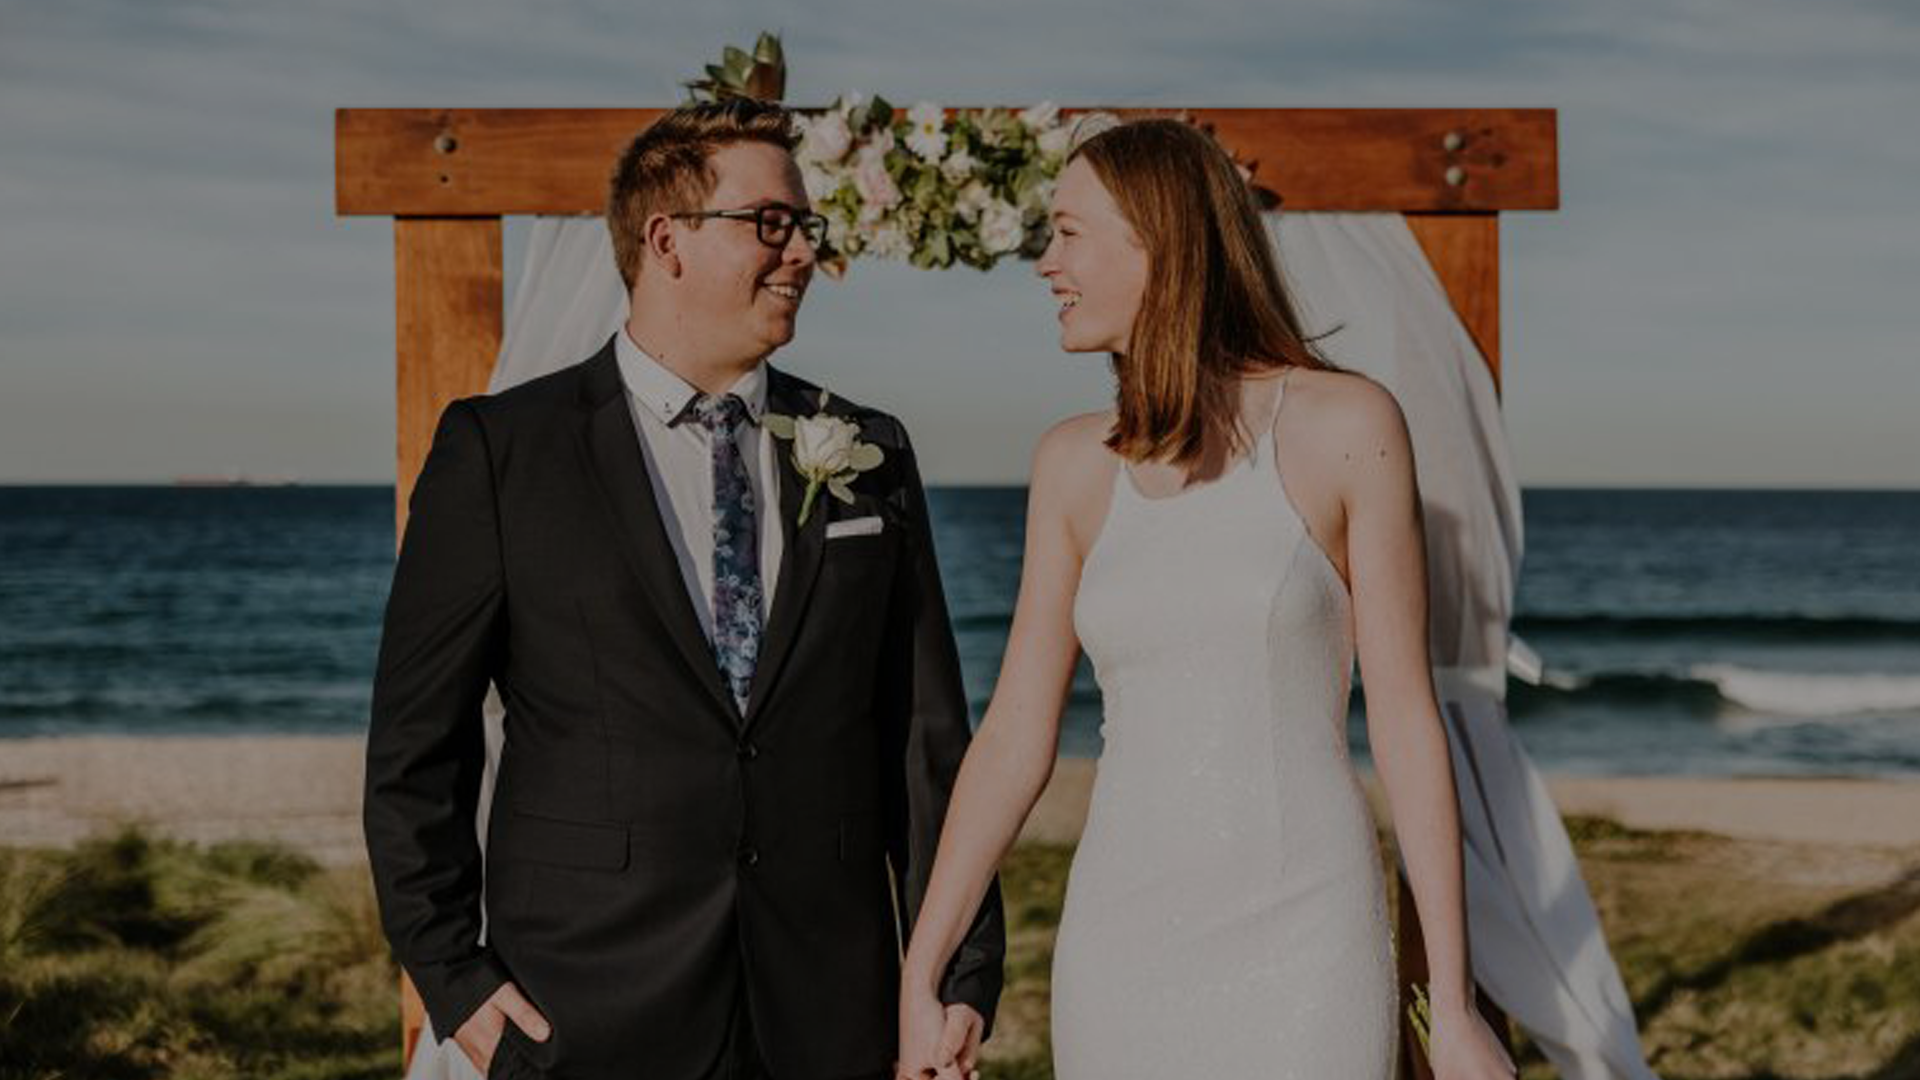
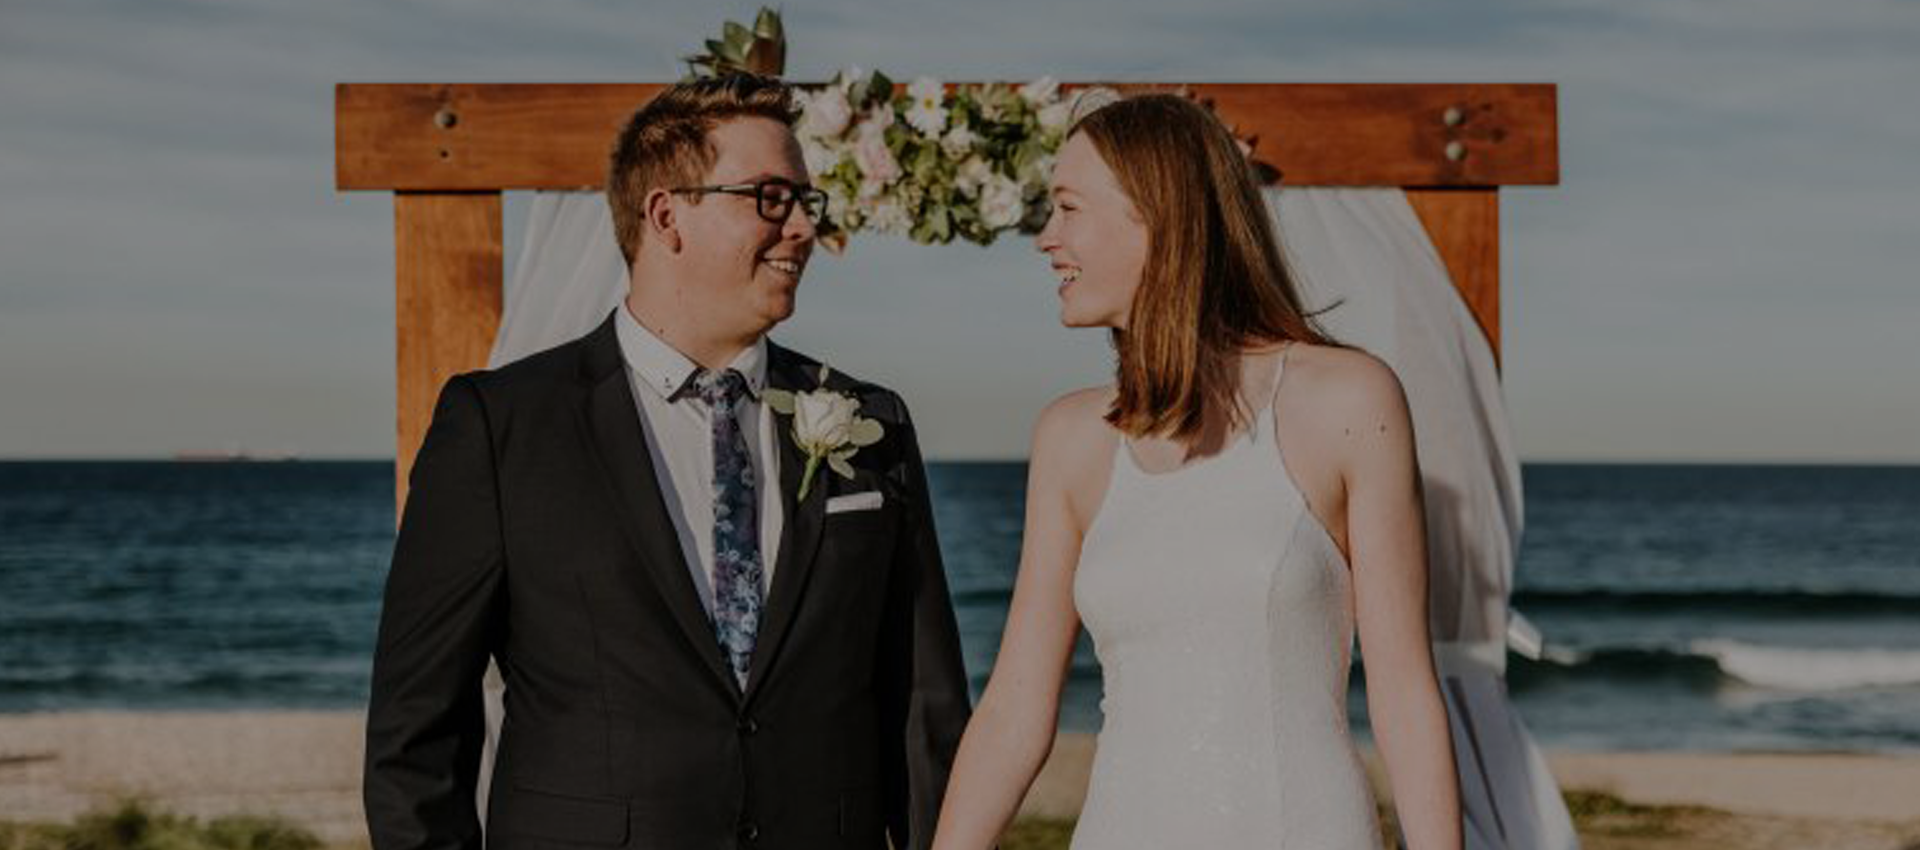
search bar

diff --git a/index.html b/index.html
@@ -7,6 +7,7 @@
   <link rel="stylesheet" href="https://stackpath.bootstrapcdn.com/bootstrap/5.0.0-alpha1/css/bootstrap.min.css" integrity="sha384-r4NyP46KrjDleawBgD5tp8Y7UzmLA05oM1iAEQ17CSuDqnUK2+k9luXQOfXJCJ4I" crossorigin="anonymous">
   <script src="https://cdn.jsdelivr.net/npm/popper.js@1.16.0/dist/umd/popper.min.js" integrity="sha384-Q6E9RHvbIyZFJoft+2mJbHaEWldlvI9IOYy5n3zV9zzTtmI3UksdQRVvoxMfooAo" crossorigin="anonymous"></script>
   <script src="https://stackpath.bootstrapcdn.com/bootstrap/5.0.0-alpha1/js/bootstrap.min.js" integrity="sha384-oesi62hOLfzrys4LxRF63OJCXdXDipiYWBnvTl9Y9/TRlw5xlKIEHpNyvvDShgf/" crossorigin="anonymous"></script>
+  <link rel="stylesheet" href="https://fonts.googleapis.com/css2?family=Material+Symbols+Outlined:opsz,wght,FILL,GRAD@20..48,100..700,0..1,-50..200" />
   <link rel="stylesheet" type="text/css" href="styles.css" /> 
 </head>
     <body>        
@@ -35,11 +36,32 @@
           </div>
         </nav>
 
-        <div class="jam-image ">
+        <div class="header-image">
           <img src="./images/theplanner-wedding-header-banner.png" class="img-fluid" alt="Responsive image">
-          <!-- <h1>JAM PIALA BALBUENA</h1>
-          <p>Pinaka gwapo sa tanang gwapo period.</p>
-          <h3>Ayaw na ug scroll.</h3> -->
         </div>
+
+        <!-- <form class="form-inline">
+          <input class="form-control mr-sm-2" type="search" placeholder="Search" aria-label="Search">
+          <button class="btn btn-outline-success my-2 my-sm-0" type="submit">Search</button>
+        </form> -->
+        <div class="search-bar">
+          <div class="container">
+            <h1>GET YOUR PACKAGES</h1>
+            <form action="" class="form-inline">
+              <div class="row">
+                <div class="col-sm-5">
+                  <input class="form-control" type="search" placeholder="Events" aria-label="Events">
+                </div>
+                <div class="col-sm-5">
+                  <input class="form-control" type="search" placeholder="Packages" aria-label="Packages">
+                </div>
+                <div class="col-sm-2">
+                  <button class="btn search-button" type="submit">Search</button>
+                </div>
+              </div>
+            </form>
+          </div>
+        </div>
+        
     </body>
 </html>

diff --git a/styles.css b/styles.css
@@ -3,3 +3,28 @@ body {
     padding: 0;
     font-family: 'Google Sans', arial, sans-serif;
  }
+
+ .header-image{
+    background-repeat: no-repeat;
+    background-size: cover;
+ }
+
+ .container {
+  position: relative;
+  text-align: center;
+  color: white;
+}
+
+.search-bar{
+  position: absolute;
+  top: 50%;
+  left: 50%;
+  transform: translate(-50%, -50%);
+  width: -webkit-fill-available;
+}
+
+.search-button{
+   background: red;
+   width: 100%;
+   color: white;
+}
